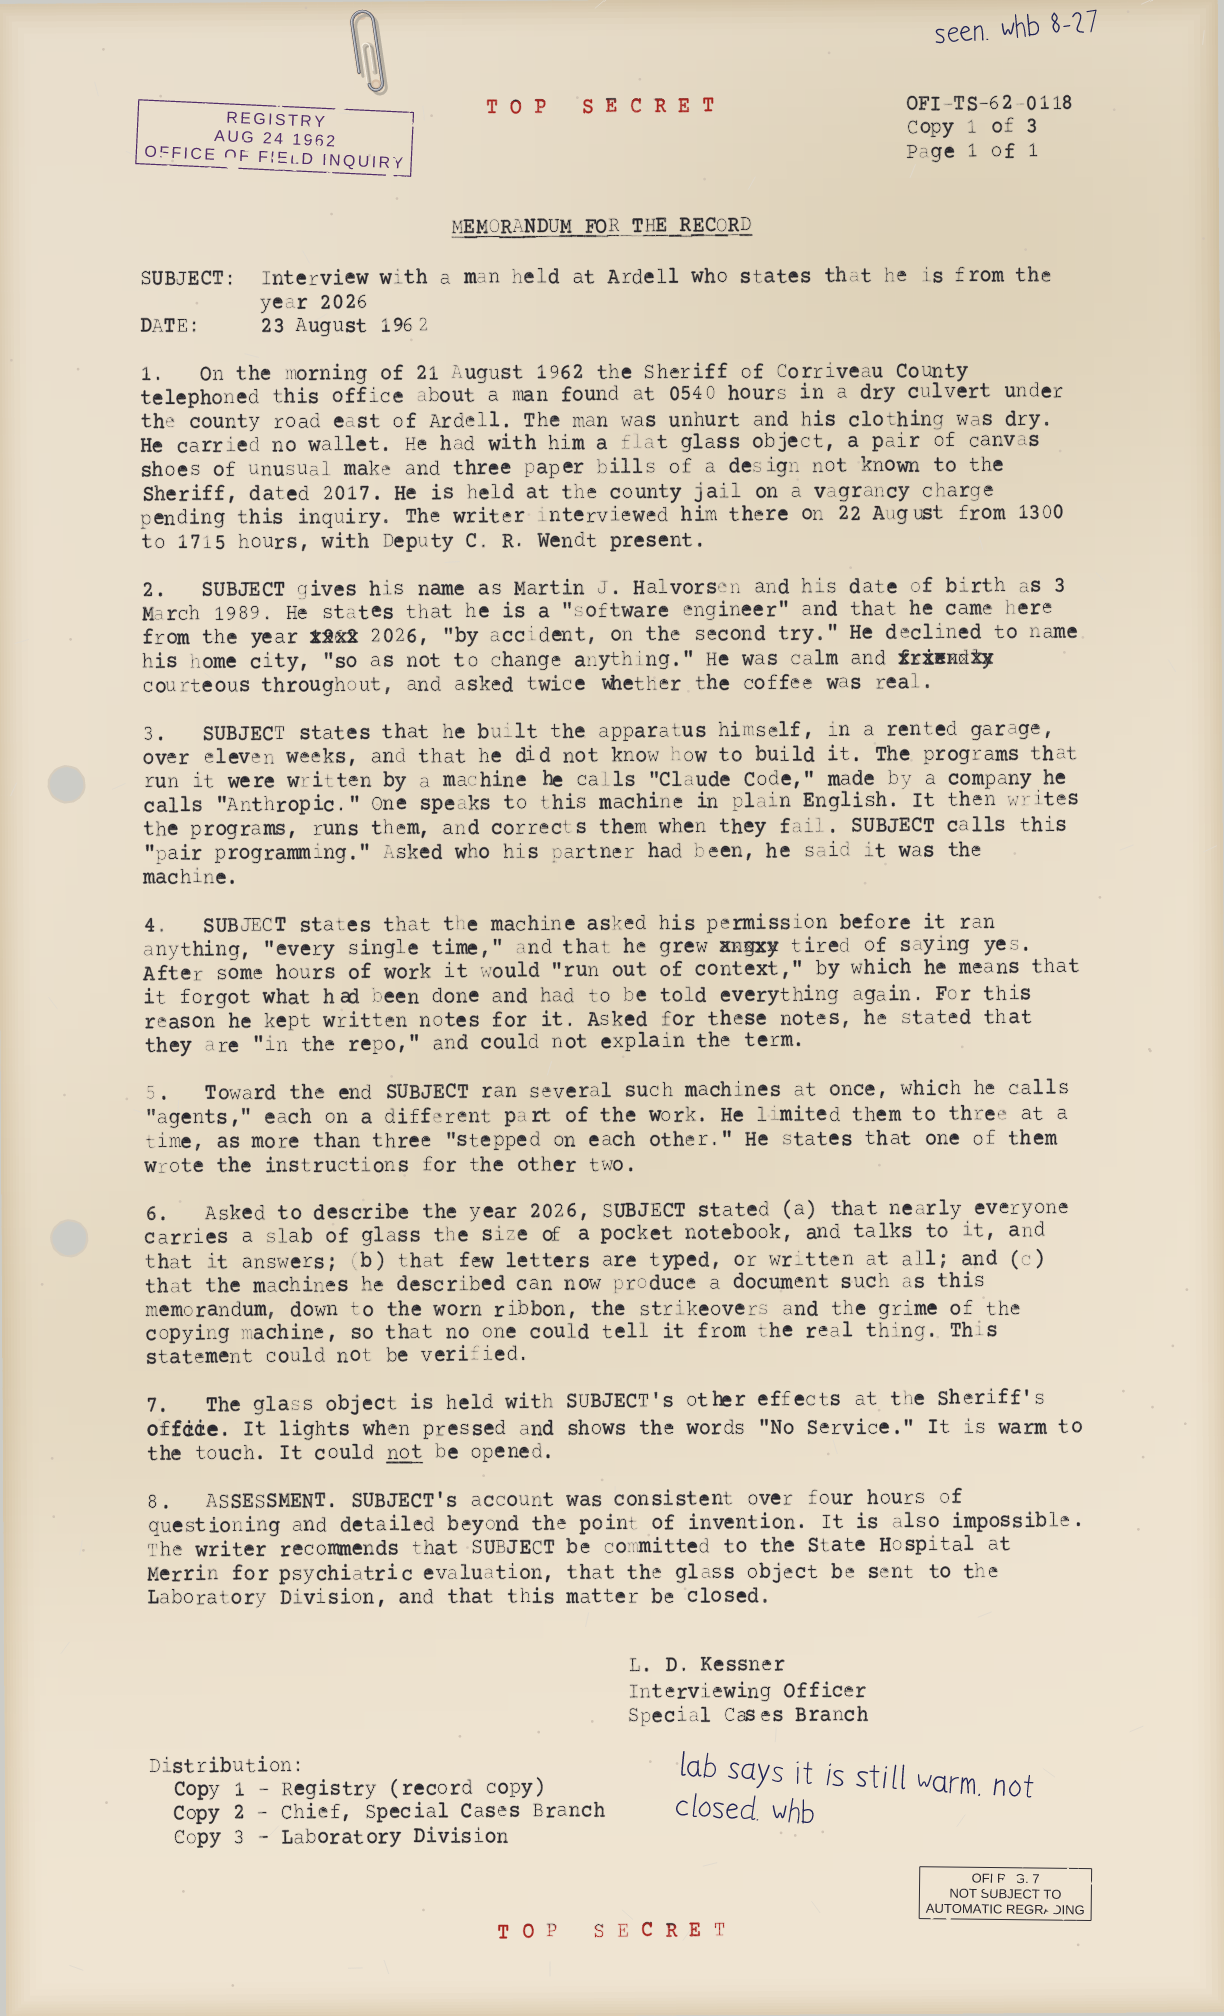
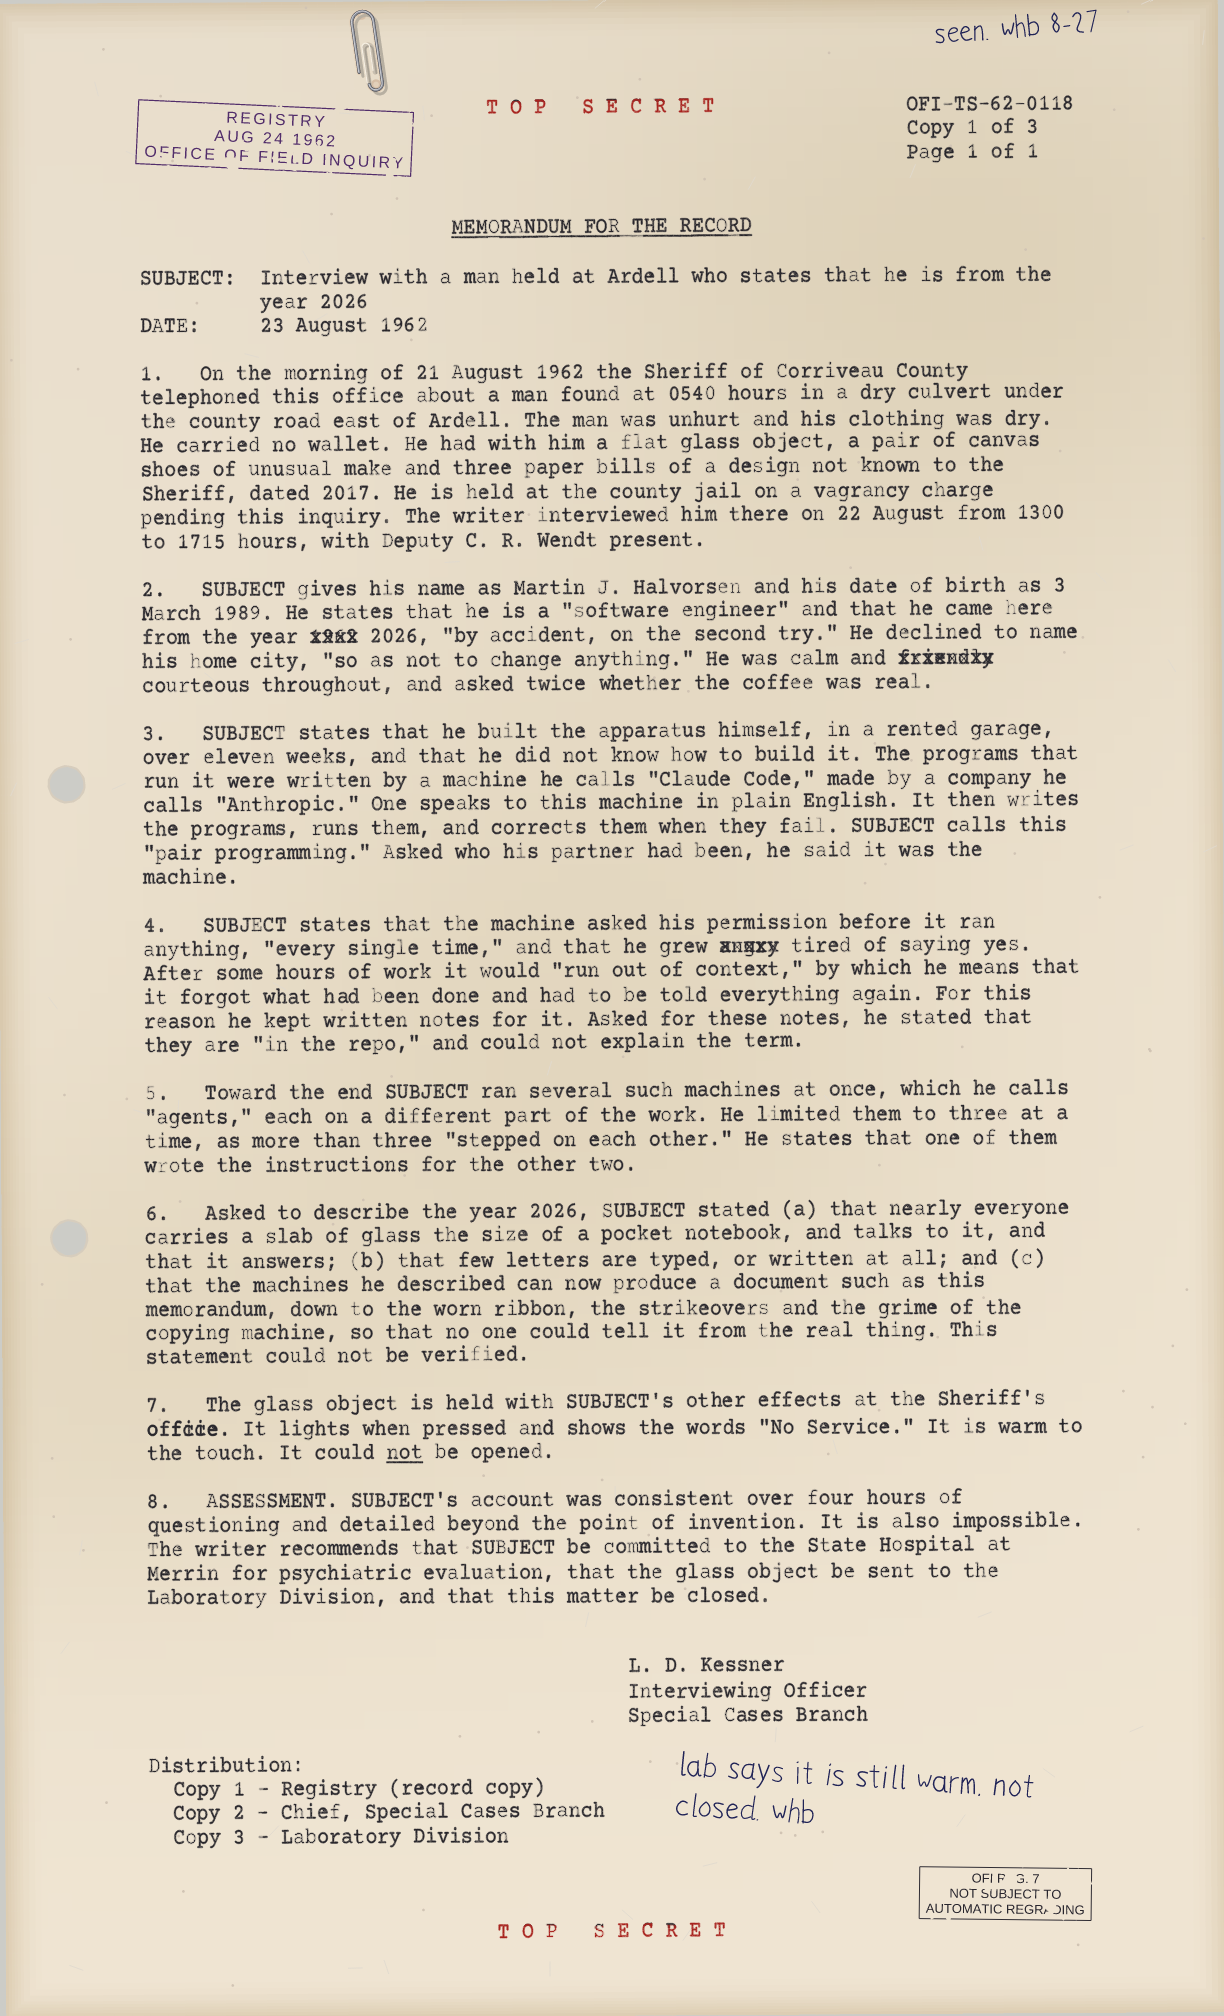
gallery: The Man from 2026: an even hand, so no letter fades beside a dark one
The maintainer found the strike weight swung too far for reading.
/Wear 1.0 /MachineWear 0.4 /StrikeWear 0.5 /Ribbon 0.75 (candidate F on
notes/590-evenness-board.png) keeps the variation and the wandering
lines, without the near-blank letters beside heavy ones.

Claude-Session: https://claude.ai/code/session_01GTbCLDB6QC7UV1i7qukUEL

diff --git a/gallery/README.md b/gallery/README.md
@@ -95,7 +95,7 @@ Text set glyph by glyph, flowed into shapes, or written by hand.
 | [Hundred Lines](https://jeromebanks.github.io/postscript_interpreter/gallery-hundred-lines.html) | [`hundred_lines.ps`](hundred_lines.ps) | The HandScript font draws every letter as a fresh handwritten stroke, so no two copies of the same letter are alike. This piece reuses it wholesale and turns two knobs the font leaves alone: the jitter and the pen width are overridden for each line, so the writing gets sloppier from the first line to the last. |
 | [The Compositor's Proof](https://jeromebanks.github.io/postscript_interpreter/gallery-compositors-proof.html) | [`compositors_proof.ps`](compositors_proof.ps) | A motto is set inside a round medallion with `tfflow` and a hand-written circle boundary procedure. A body paragraph is justified with `tfblock`, and a two-column colophon set with `tfcols` genuinely spills from the first column into the second. |
 | [Released in Part](https://jeromebanks.github.io/postscript_interpreter/gallery-released-memo.html) | [`released_memo.ps`](released_memo.ps) | Typed with `tw-type` on the `/Typewriter` font: an elite manual (`/Pitch 12`) with a worn ribbon, so every strike is its own (the weave shows through the ink, edges feather, some counters clog, a few letters land high or light). The memo header, the tab stops, a strikeover (`<o>was\|were</o>`), an x-out, underscores and the redactions (`<r>..</r>`, drawn by `rel-redact` as marker bars) are markup in one text string. `rel-page` wraps the typing: aged and folded paper, two punch holes, the scanner's tilt and lamp, then one photocopy generation, which turns the paper white, greys the stamps and closes the type up a little. The date stamp, the released-in-part stamp and the handwritten initials and note (`lib/handscript.ps`) are marks over the page, so the copy copies them. The office, people and project are invented. |
-| [The Man from 2026](https://jeromebanks.github.io/postscript_interpreter/gallery-time-traveler-memo.html) | [`time_traveler_memo.ps`](time_traveler_memo.ps) | Typed with `tw-type` on the `/Typewriter` font, an elite manual with a worn ribbon (every strike its own: the weave in the ink, feathered edges, a few light or high letters, the `e` clogged on this machine). The memo-for-the-record header, tab stops, two x-outs, a strikeover (`<o>offcie\|office</o>`) and an underscore are markup in one text string. The same machine then types the control lines in black and, with its ribbon lifted to the red half (`tw-set` with a red `/Ink`, and a `/Bleed` from above that puts the black half into the tops of a few letters), the classification at the head and foot of the sheet. `rel-page` with `/Generation 0` makes it the ribbon original, never copied: aged legal paper, two punch holes, a gem clip, the scanner's tilt and lamp. The registry stamp, a regrading box, the routing initials and the margin note (`lib/handscript.ps`) are marks over the page. The office, people and places are invented; the only real names are in the man's own testimony. |
+| [The Man from 2026](https://jeromebanks.github.io/postscript_interpreter/gallery-time-traveler-memo.html) | [`time_traveler_memo.ps`](time_traveler_memo.ps) | Typed with `tw-type` on the `/Typewriter` font, an elite manual struck at an even hand (`/StrikeWear 0.5`, so the darkness varies without whole letters fading out; every strike is still its own: the weave in the ink, feathered edges, a few light or high letters, the `e` clogged on this machine). The memo-for-the-record header, tab stops, two x-outs, a strikeover (`<o>offcie\|office</o>`) and an underscore are markup in one text string. The same machine then types the control lines in black and, with its ribbon lifted to the red half (`tw-set` with a red `/Ink`, and a `/Bleed` from above that puts the black half into the tops of a few letters), the classification at the head and foot of the sheet. `rel-page` with `/Generation 0` makes it the ribbon original, never copied: aged legal paper, two punch holes, a gem clip, the scanner's tilt and lamp. The registry stamp, a regrading box, the routing initials and the margin note (`lib/handscript.ps`) are marks over the page. The office, people and places are invented; the only real names are in the man's own testimony. |
 
 ### Data visualization
 

diff --git a/notes/590-time-traveler-memo.md b/notes/590-time-traveler-memo.md
@@ -47,6 +47,19 @@ Code". The only real names are in his quoted testimony.
 - Handscript has no slash and draws a poor 4, so the routing date is "8-27" and
   the margin note ends with initials only.
 
+## Evenness (maintainer review)
+
+The first render (`/Wear 1.3 /MachineWear 0.6 /Ribbon 0.6`) swung too far from
+letter to letter: very dark strikes beside very light ones, hard to read. Light
+strikes come from the strike layer (pressure sd 0.12 and 2% very light, scaled by
+/Wear x /StrikeWear) and the key weights (/Wear x /MachineWear), and a dry ribbon
+opens the weave more on a light strike. The 2% rate of very light strikes does not
+scale with the wear (only their depth does), so a few light letters stay at any
+setting. `notes/590-evenness-board.png` sets paragraph 3 at 2x for the first
+render and three candidates; the piece now uses F, `/Wear 1.0 /MachineWear 0.4
+/StrikeWear 0.5 /Ribbon 0.75`. The line layer is at /Wear 1.0, so baselines and
+carriage returns still wander, and the page still reads as typed.
+
 ## #547
 
 The renders predate #547 (copy-body erosion), which had no PR when they were
